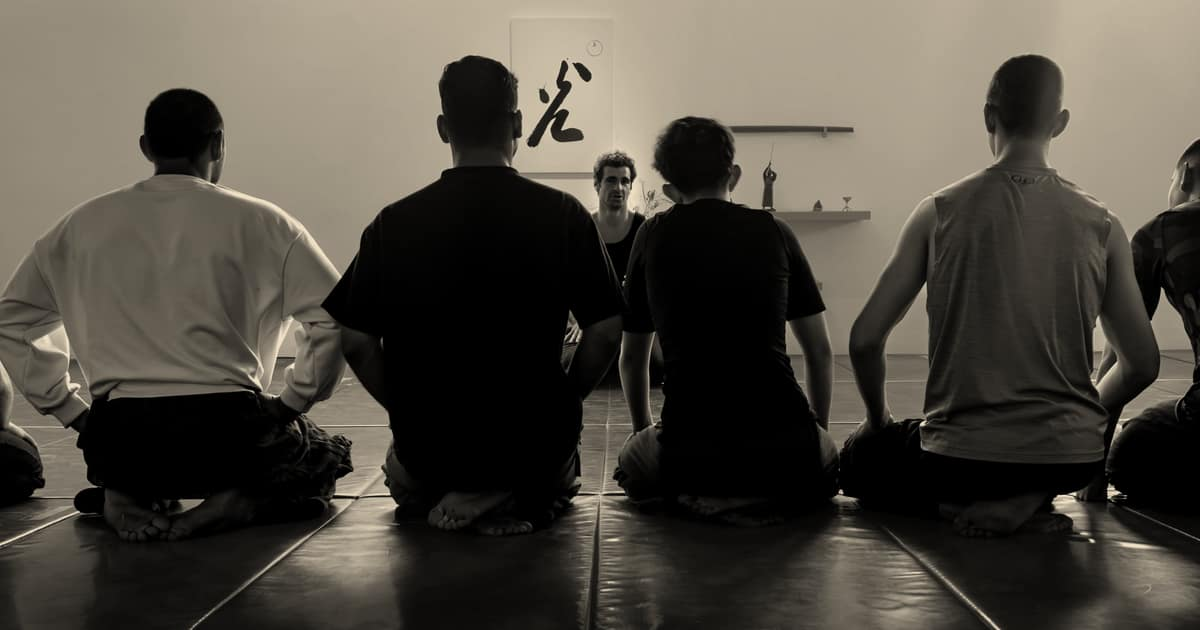
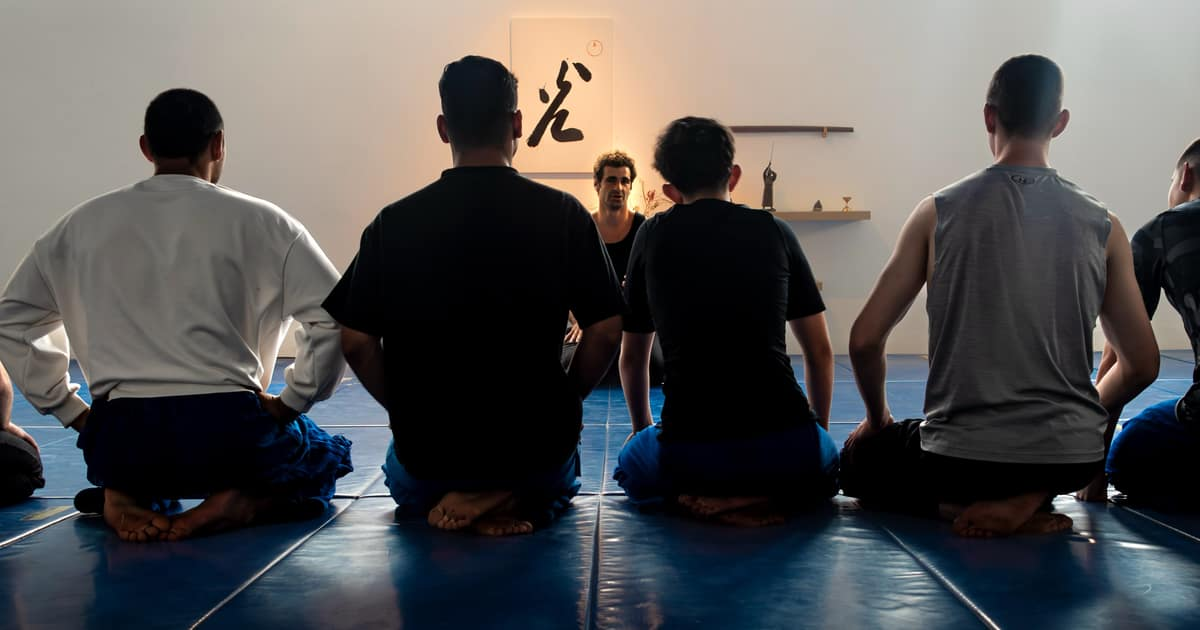
Gura Dojo mirror v5: photos in natural colour

diff --git a/css/site.css b/css/site.css
@@ -14,8 +14,7 @@
   --beni: #BE2F35; --beni-hi: #C3343A; --beni-lo: #B42B31;
   --focus: #E2C48E; --focus-paper: #2A231B;
   --ok: #7DBA8A; --err: #F08A6E; --off: #7D7466;
-  --grade: grayscale(1) brightness(0.8) sepia(0.5) hue-rotate(-8deg) contrast(1.05);
-  --grade-paper: grayscale(1) brightness(1.5) sepia(0.5) hue-rotate(-8deg) contrast(1.08);
+  --lift-paper: brightness(1.7) contrast(1.08);
   --serif: "Noto Serif Hebrew", "Noto Serif", "David", Georgia, serif;
   --sans: "Assistant", "Arial Hebrew", "Segoe UI", Arial, sans-serif;
   --ease-in-view: cubic-bezier(0, 0, 0, 1);
@@ -144,17 +143,17 @@ main { padding-block-start: var(--nav-h); }
   .hero__media { grid-column: 7 / span 6; grid-row: 1 / span 2; margin: 0; max-inline-size: none; }
 }
 
-/* photos and clips fused into the ground: one grade, a feathered edge, no frame (filter and mask live on the media element itself) */
-.fuse { --ft: 4%; --fr: 4%; --fb: 4%; --fl: 4%; filter: var(--grade);
-  -webkit-mask-image: linear-gradient(to right, transparent, #000 var(--fl), #000 calc(100% - var(--fr)), transparent), linear-gradient(to bottom, transparent, #000 var(--ft), #000 calc(100% - var(--fb)), transparent);
-  -webkit-mask-composite: source-in;
-  mask-image: linear-gradient(to right, transparent, #000 var(--fl), #000 calc(100% - var(--fr)), transparent), linear-gradient(to bottom, transparent, #000 var(--ft), #000 calc(100% - var(--fb)), transparent);
-  mask-composite: intersect; }
+/* photos and clips in natural colour, fused into the ground by an eased feathered edge, no frame (mask and blend live on the media element itself) */
+.fuse { --ft: 4%; --fr: 4%; --fb: 4%; --fl: 4%;
+  --mx: linear-gradient(to right, transparent, rgb(0 0 0 / 0.35) calc(var(--fl) * 0.5), #000 var(--fl), #000 calc(100% - var(--fr)), rgb(0 0 0 / 0.35) calc(100% - var(--fr) * 0.5), transparent);
+  --my: linear-gradient(to bottom, transparent, rgb(0 0 0 / 0.35) calc(var(--ft) * 0.5), #000 var(--ft), #000 calc(100% - var(--fb)), rgb(0 0 0 / 0.35) calc(100% - var(--fb) * 0.5), transparent);
+  -webkit-mask-image: var(--mx), var(--my); -webkit-mask-composite: source-in;
+  mask-image: var(--mx), var(--my); mask-composite: intersect; }
 .f-open { --ft: 10%; --fr: 3%; --fb: 3%; --fl: 3%; }
-.f-wall { --ft: 4%; --fr: 10%; --fb: 8%; --fl: 10%; filter: var(--grade-paper); mix-blend-mode: multiply; }
+.f-wall { --ft: 4%; --fr: 10%; --fb: 8%; --fl: 10%; filter: var(--lift-paper); mix-blend-mode: multiply; }
 .f-circle { --ft: 8%; --fr: 4%; --fb: 12%; --fl: 4%; }
-.f-clip { --ft: 4%; --fr: 4%; --fb: 4%; --fl: 4%; }
-.f-clip-wide { --ft: 5%; --fr: 4%; --fb: 5%; --fl: 4%; }
+.f-clip { --ft: 6%; --fr: 6%; --fb: 6%; --fl: 6%; }
+.f-clip-wide { --ft: 6%; --fr: 5%; --fb: 6%; --fl: 5%; }
 .f-judo { --ft: 6%; --fr: 6%; --fb: 6%; --fl: 6%; }
 .f-portrait { --ft: 2%; --fr: 3%; --fb: 6%; --fl: 8%; }
 .f-dojo { --ft: 8%; --fr: 4%; --fb: 14%; --fl: 4%; }
